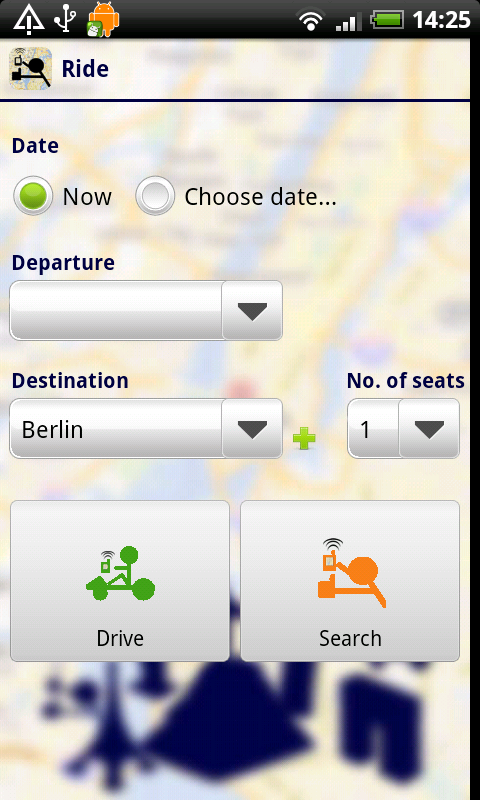
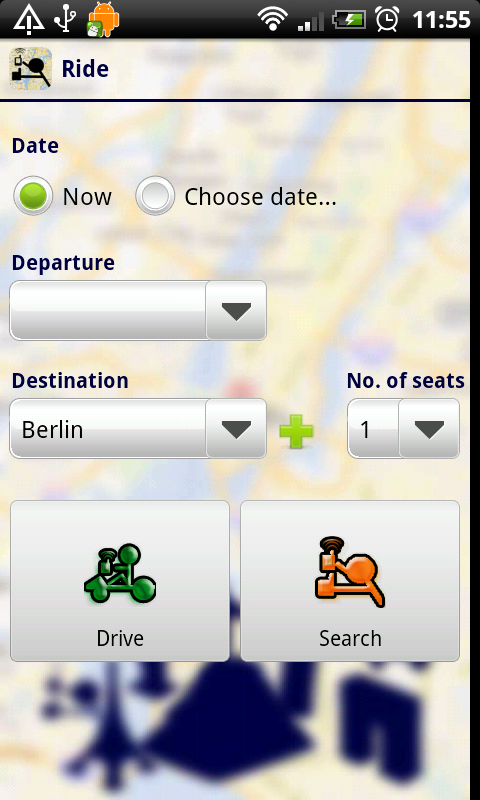
vhike manual images refs #867

diff --git a/documentation/vHike/manual/manual.html b/documentation/vHike/manual/manual.html
@@ -165,7 +165,7 @@
             <div class="clear"></div>
             <h2 id="ride_activity" style="clear:none;">Fahrt planen/teilnehmen</h2>
             <a href="images/vhike_plantrip.png" class="fancybox">
-            <img src="images/PlanTripMenu.png" alt="PlanTrip" style="width:215px;" class="right" />
+            <img src="images/PlanTripActivity.png" alt="PlanTrip" style="width:215px;" class="right" />
             </a>
             <p>
             </p>

diff --git a/pmp-android/Apps/vHike/src/de/unistuttgart/ipvs/pmp/apps/vhike/gui/RegisterActivity.java b/pmp-android/Apps/vHike/src/de/unistuttgart/ipvs/pmp/apps/vhike/gui/RegisterActivity.java
@@ -36,7 +36,6 @@ public class RegisterActivity extends ResourceGroupReadyActivity {
     EditText et_firstname;
     EditText et_lastname;
     EditText et_mobile;
-    EditText et_desc;
     
     boolean cEmail = false;
     boolean cPw = false;
@@ -78,7 +77,6 @@ public class RegisterActivity extends ResourceGroupReadyActivity {
         this.et_firstname = (EditText) findViewById(R.id.et_firstname);
         this.et_lastname = (EditText) findViewById(R.id.et_lastname);
         this.et_mobile = (EditText) findViewById(R.id.et_mobile);
-        this.et_desc = (EditText) findViewById(R.id.et_description);
         
         validator();
         if (getvHikeRG(this) != null) {
@@ -217,7 +215,6 @@ public class RegisterActivity extends ResourceGroupReadyActivity {
                 RegisterActivity.this.et_firstname = (EditText) findViewById(R.id.et_firstname);
                 RegisterActivity.this.et_lastname = (EditText) findViewById(R.id.et_lastname);
                 RegisterActivity.this.et_mobile = (EditText) findViewById(R.id.et_mobile);
-                RegisterActivity.this.et_desc = (EditText) findViewById(R.id.et_description);
                 
                 map.put("username", et_username.getText().toString());
                 map.put("password", RegisterActivity.this.et_password.getText().toString());
@@ -225,7 +222,7 @@ public class RegisterActivity extends ResourceGroupReadyActivity {
                 map.put("firstname", RegisterActivity.this.et_firstname.getText().toString());
                 map.put("lastname", RegisterActivity.this.et_lastname.getText().toString());
                 map.put("tel", RegisterActivity.this.et_mobile.getText().toString());
-                map.put("description", RegisterActivity.this.et_desc.getText().toString());
+                map.put("description", "");
                 
                 if (validRegistrationForm(RegisterActivity.this.cMobile, RegisterActivity.this.cEmail,
                         RegisterActivity.this.cPw)) {
